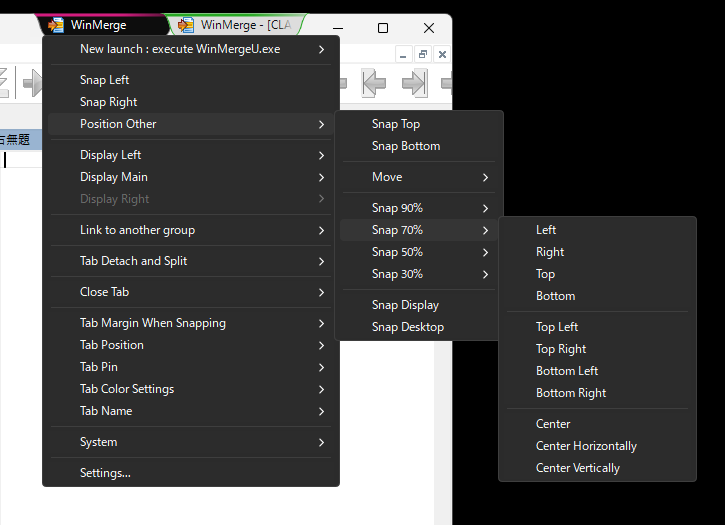
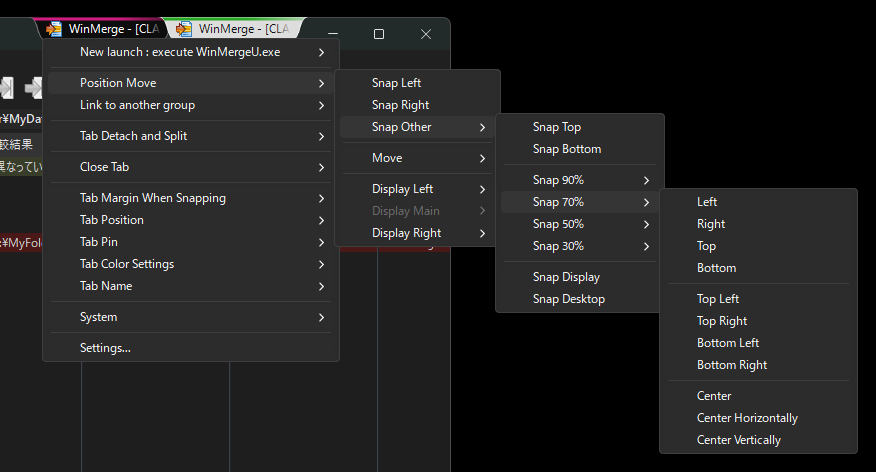
update README

diff --git a/README.md b/README.md
@@ -45,8 +45,6 @@ Two download options are available:
 - **WtSetup.msi** - Windows Installer package with automatic installation and uninstallation support
 - **WindowTabs.zip** - Portable version that can be extracted and run from any location
 
-You can also build the installer and portable version yourself using the provided build scripts.
-
 ## Installation
 
 ### Using the MSI Installer (WtSetup.msi)
@@ -64,135 +62,93 @@ You can also build the installer and portable version yourself using the provide
 3. Run `WindowTabs.exe`
 4. WindowTabs will run in the background and add a tray icon
 
-To run WindowTabs at startup:
-- Enable "Run at startup" option in the Settings > Behavior tab
 
 ## Usage
 
-1. Run `WindowTabs.exe`
-2. Windows will automatically get tabs when grouped together
-3. Right-click the tray icon to access settings
-4. Right-click on tabs to access tab-specific options
-5. Drag and drop tabs to organize your windows
+- Run `WindowTabs.exe`
+- Right-click the tray icon to access settings
+- In the [Programs] tab of settings, choose programs you want tabs for
+- Tabs will appear on those programs' windows
+- Right-click on tabs to access tab-specific options
+- Drag and drop tabs to organize your windows
 
 ## Features
 
 ### Tab Drag and Drop
-
-This feature remains unchanged from the original WindowTabs functionality.
-
 - Drag tabs to reorder within the same group
-- Drag tabs to separate into new windows with preview
-- Drop windows to create new tab groups
+- Drag tabs to split into a new window or link to another group
 
 ### Tab Management
 
-- **Tab Context Menu**: Right-click on tabs to access various options
-  - New launch : (exe name) (submenu: new tab in the same group, new window with position, new window linked to another group)
+- **Tab Context Menu**
+  - New launch : (exe name)
+    - new tab in the same group
+    - new window with position
+    - link to another group
   ---
-  - Snap Left / Snap Right
-  - Position Other (submenu: Move and Snap to edges/corners with percentage options)
-  ---
-  - Display Left / Display Main / Display Right
+  - Position Move
+    - Snap Left / Snap Right
+    - Snap Other
+      - Snap Top / Snap Bottom
+      - Snap 90% / 70% / 50% / 30%
+      - Display / Desktop
+    - Move
+      - Corners, top/bottom/left/right
+    - Move to another display
   ---
   - Link to another group
   ---
-  - Tab Detach and Split (submenu: Snap Left/Right at top, rest under "Position Other")
+  - Tab Detach and Split
+    - Detach and reposition
+    - Detach and link to another group
   ---
-  - Close Tab (submenu: this tab, tabs to the left/right, other tabs, all tabs)
-  ---
-  - Tab Pin (submenu: pin/unpin this tab, paired pin/unpin left/right tabs, with a separator between the left-tab and right-tab groups)
-  - Tab Color Change (per-scope submenus — this tab, left tabs, right tabs — with fill / underline / border types, each paired with a "Clear color" item)
+  - Close Tab
+    - this tab, tabs to the left/right, other tabs, all tabs
   ---
   - Tab Margin When Snapping (per-tab-group toggle)
-  - Tab Align (Align all tabs to Left/Right at top level, individual tab alignment in submenu showing only the opposite side)
-  - Tab Name (rename / reset)
+  - Tab Align
+      - Align all tabs to Right / Left
+      - Per-tab alignment
+  - Tab Pin
+      - Pin / unpin this tab, paired pin / unpin for left and right tabs
+  - Tab Color Change
+    - Apply color for this tab / left tabs / right tabs
+      (Fill / Underline / Border types)
+  - Tab Name (Rename / Reset)
   ---
-  - System (submenu: copy exe path, copy window title, open exe folder, force kill process)
+  - System
+    - Copy exe path, copy window title, open exe folder, force kill process
   ---
   - Settings
 
+
+### New Launch
+
 ![Popup Menu](README_Image/PopupMenu.png)
 
-
-#### New Launch
-
-Launch a new instance of the tab's executable directly from the tab context menu, with three variants:
-
-- **New tab in the same group**: the new window joins the current tab group
-- **New window with position**: a standalone window that does not auto-group; choose Snap Left/Right or a position from the Position Other submenu
-- **New window linked to another group**: a standalone window that joins a selected existing group
-- The two "new window" variants bypass auto-grouping so the launched window does not get merged into an unrelated group
-
-
-#### Reposition
-
-Top level menu options:
-- Snap Left / Snap Right - Snap to the left or right side of the screen (full height)
-
-"Position Other" submenu:
-- "Move" submenu: Left, Right, Top, Bottom edges and Top-Left, Top-Right, Bottom-Left, Bottom-Right corners
-- Snap Top / Snap Bottom
-
-"Snap x%" submenu:
-- Left / Right / Top / Bottom
-- Top-Left, Top-Right, Bottom-Left, Bottom-Right - Corner snap with percentage options
-- Center, Center Horizontally, Center Vertically
-- Snap Display / Snap Desktop - Resize to fill current display or entire desktop (without using Windows maximize)
-- DPI-aware percentage-based positioning for correct placement across different DPI displays
+### Position Move
 
 ![Popup Menu Move Other](README_Image/PopupMenuMoveOther.png)
 
-#### Link to another group
+### Link to another group
 
-Link a tab or tabs to another existing group:
-- Shows other groups with tab names and counts
-- Displays the application icon of the first tab in each group
+![](README_Image/MoveTabGroupToGroup.png)
 
-![Link to another group](README_Image/MoveTabGroupToGroup.png)
-
-#### Detach this tab / Split right/left side
-
-Detach a single tab from a tab group,
-or split tabs to the right or left from the selected tab,
-and reposition or link to another group.
+### Detach this tab / Split right/left side
 
 ![Tab Split Move Position](README_Image/SplitTabs.png)
 
-#### Close Tab
+### Close Tab
 
 ![Popup Menu Close Tab](README_Image/PopupMenuCloseTab.png)
 
 ### Pinned Tabs
 
-Pin tabs to keep them in a fixed position on the left side of the tab strip, similar to browser pinned tabs.
-
-- Pin or unpin individual tabs
-- Pin/unpin left or right tabs within the same alignment group (left-tab and right-tab groups separated by a divider)
-- Pinned tab width can be set to icon-only size or a specified fixed width
-- When using specified width, a pushpin icon allows unpinning
-- Dragging a tab into the pinned zone automatically pins it
-
-![Pinned Tabs Icon](README_Image/PinnedTabIcon.png)  
+![Pinned Tabs Icon](README_Image/PinnedTabIcon.png)
 ![Pinned Tabs Width](README_Image/PinnedTabWidth.png)
 ![Pinned Tabs Menu](README_Image/PinnedTabMenu.png)
 
 ### Tab Color
-
-Set a color on individual tabs for visual identification. Three color types are available:
-
-- **Fill**: Semi-transparent color overlay on the tab background
-- **Underline**: Colored line at the bottom of the tab with a left-to-right gradient
-- **Border**: Colored outline around the tab (1px curves + gradient bottom edge)
-
-**7 colors**: Red, Blue, Green, Yellow, Purple, Orange, Pink
-
-- Right-click a tab and use the "Tab Color Change" submenu
-- Color selection is organized into per-scope submenus: this tab, left tabs, right tabs
-- Each scope submenu is paired with a "Clear color" item at the top level for quick removal
-- Fill, underline, and border are mutually exclusive (setting one clears the others)
-- Checkmark overlay (in the "this tab" submenu) on the color icon when the tab's current color matches
-- Colors are persisted across restarts
 
 ![Pinned Tab Color Tab](README_Image/PinnedColorTab.png)
 
@@ -200,32 +156,23 @@ Set a color on individual tabs for visual identification. Three color types are 
 
 Each tab can be individually set to left or right alignment within a tab group:
 
-- **Align Left**: Tab is positioned from the left edge of the tab strip
-- **Align Right**: Tab is positioned from the right edge of the tab strip
-- Drag & drop alignment detection: dragging past the center of the empty space changes tab alignment
-- "Align all tabs to Left/Right" to change all tabs at once
-- "Align X left/right tab(s) in [group] to [target]" to change multiple tabs within the same alignment group
-- Per-tab alignment is persisted across group transfers and application restarts
-- Close, color, and split operations use visual order; pin and align operations work within the same alignment group
-
-### Menu Dark Mode / Light Mode
+### Dark Mode / Light Mode
 
 While light mode is the default, dark mode is also supported for context menus (popup menus) as shown in the screenshots.
 
-- Toggle via "Menu Dark Mode" checkbox in Appearance settings
-- Applies to tab context menu and drag-and-drop menus
+- Toggle via the "Menu Dark Mode" checkbox in Appearance settings
+- Applies to the tab and tray context menus
+- Applies to the settings dialog
 
 ### Multi-Display and DPI Support
 
 - Multi-display support with proper window positioning
 - DPI-aware window placement
 - Automatic window resizing when dropped to prevent exceeding monitor dimensions
-- Fixed tab rename floating textbox positioning on high-DPI displays
-
 
 ### Virtual Desktop Support
 
-WindowTabs fully supports Windows virtual desktops (Win+Tab):
+WindowTabs supports Windows virtual desktops (Win+Tab):
 
 - Tab groups are preserved when switching between virtual desktops
 - UWP apps (Settings, Calculator, etc.) are properly hidden when on other virtual desktops
@@ -237,12 +184,6 @@ WindowTabs fully supports Windows virtual desktops (Win+Tab):
 - Automatically handles UWP window Z-order for proper tab visibility
 - Maintains tab visibility when working with UWP apps
 - Properly detects cloaked state when apps are on other virtual desktops
-
-### TopMost Window Support
-
-- TopMost (always-on-top) windows are also managed as tabs
-- Previously excluded from tab management, now included like normal windows
-
 
 ### Multi-Language Support
 
@@ -257,24 +198,10 @@ WindowTabs fully supports Windows virtual desktops (Win+Tab):
 ### Disable Feature
 
 Temporarily disable WindowTabs functionality via tray menu:
-- **Disable** checkbox in tray icon context menu
-- When enabled:
-  - Immediately hides all existing tab groups
-  - Stops automatic tab grouping for new windows
-  - Disables Settings menu to prevent configuration changes
-- When re-enabled:
-  - Restores your previous tab group configuration
 
 ### Tab Group Persistence
 
-WindowTabs preserves your tab group configuration across restarts and disabling:
-
-- **Restart Persistence**: Tab groups are automatically saved when WindowTabs exits and restored on next startup
-  - Tab order, grouping, and renamed tab names are preserved
-  - Windows are matched by window handle for reliable restoration
-  - **All virtual desktops** are restored, not just the current one
-- **Disable/Enable Persistence**: Tab groups are preserved when temporarily disabling WindowTabs
-  - Re-enabling restores your previous tab configuration
+WindowTabs preserves your tab group configuration across restarts and when disabled:
 
 ### Watchdog Auto-Restart
 
@@ -298,9 +225,7 @@ Configure which programs should use tabs and auto-grouping behavior.
 - **Category 1-10**: Assign programs to a category for cross-application auto-grouping
   - Programs in the same category are automatically grouped together regardless of the executable
   - For example, assign Word, Excel, PowerPoint, etc. to the same category to auto-group Office apps together
-  - For example, assign Chrome, Edge, Firefox, etc. to the same category to auto-group browsers together
   - Category columns are only visible when Auto Grouping is enabled for a program
-  - Programs are sorted by category number for better visibility
 - **Show all settings**: Checkbox to display settings for programs not currently running
 - **Delete button [x]**: Remove settings for non-running processes
 
@@ -309,21 +234,12 @@ Configure which programs should use tabs and auto-grouping behavior.
 ### Appearance Tab
 
 Customize the visual appearance of tabs:
-- Tab height, tab width (max), pinned tab width, and tab overlap settings (with separate reset buttons per control)
-- Pinned tab width: "Icon Only" or specify a custom width
-- Distance from edge settings
-- Menu Dark Mode toggle
-- Color settings for each tab state (Inactive, Mouse Over, Active, Flash)
-  - Tab color, text color, and border color
-- Color theme with preset themes (Light, Light Mono, Dark, Dark Blue, Dark Mono, Dark Red Frame)
 - Custom color theme features
-  - Save/edit/delete custom themes
-  - Import/export themes via clipboard
-  - If you create a nice color theme, please share it at [GitHub Issues](https://github.com/standard-software/WindowTabs/issues). Your theme may be included as a preset theme. We'd love for others to enjoy your cool color themes!
+  - If you create a nice color theme, please share it at [GitHub Issues](https://github.com/standard-software/WindowTabs/issues). Your theme may be included as a preset theme.
 
-![Settings Appearance](README_Image/SettingsAppearance.png)  
-![Settings AppearanceColorTheme](README_Image/SettingsAppearanceColorTheme.png)  
-![Settings AppearanceColorThemeClipboard](README_Image/SettingsAppearanceColorThemeClipboard.png)  
+![Settings Appearance](README_Image/SettingsAppearance.png)
+![Settings AppearanceColorTheme](README_Image/SettingsAppearanceColorTheme.png)
+![Settings AppearanceColorThemeClipboard](README_Image/SettingsAppearanceColorThemeClipboard.png)
 
 ### Behavior Tab
 
